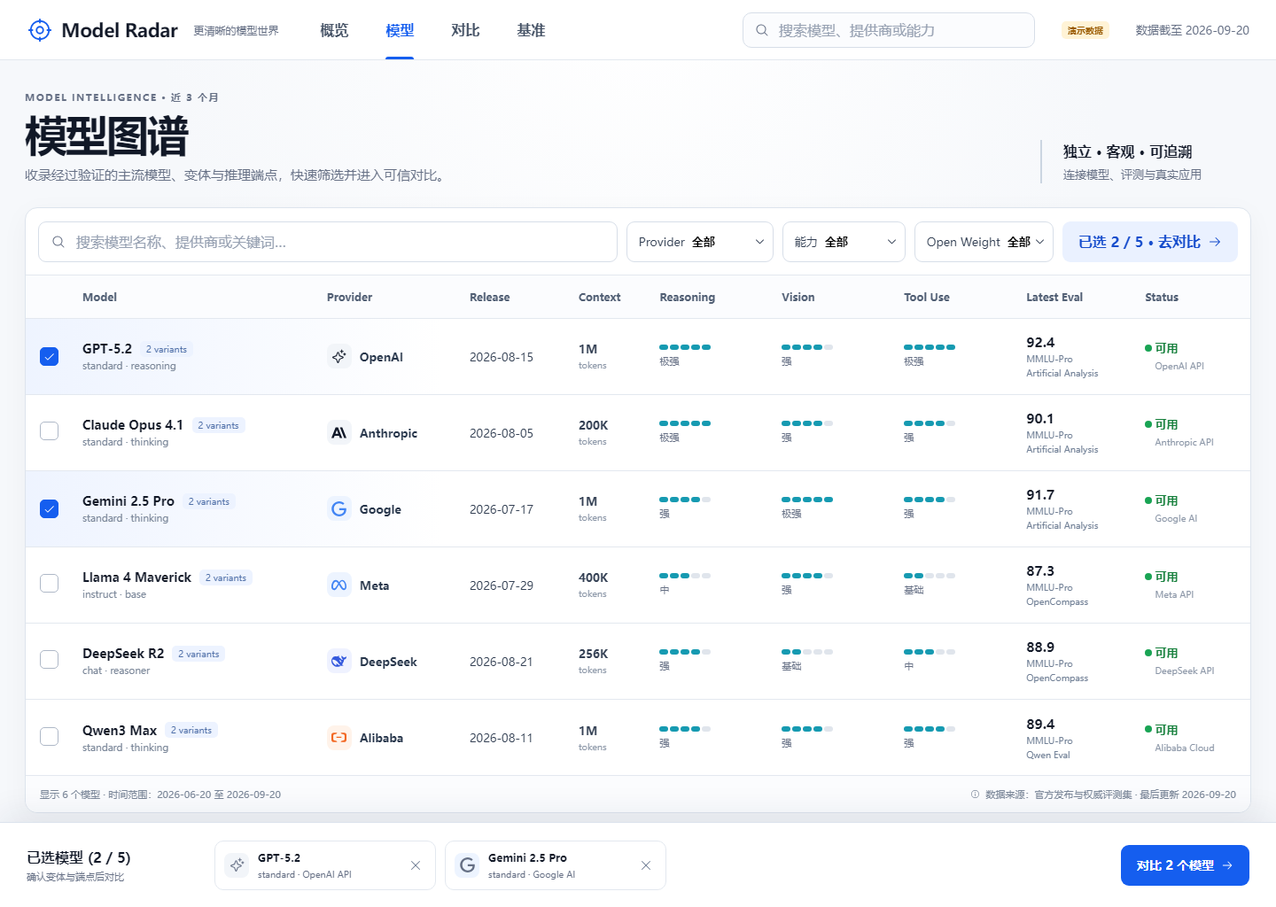
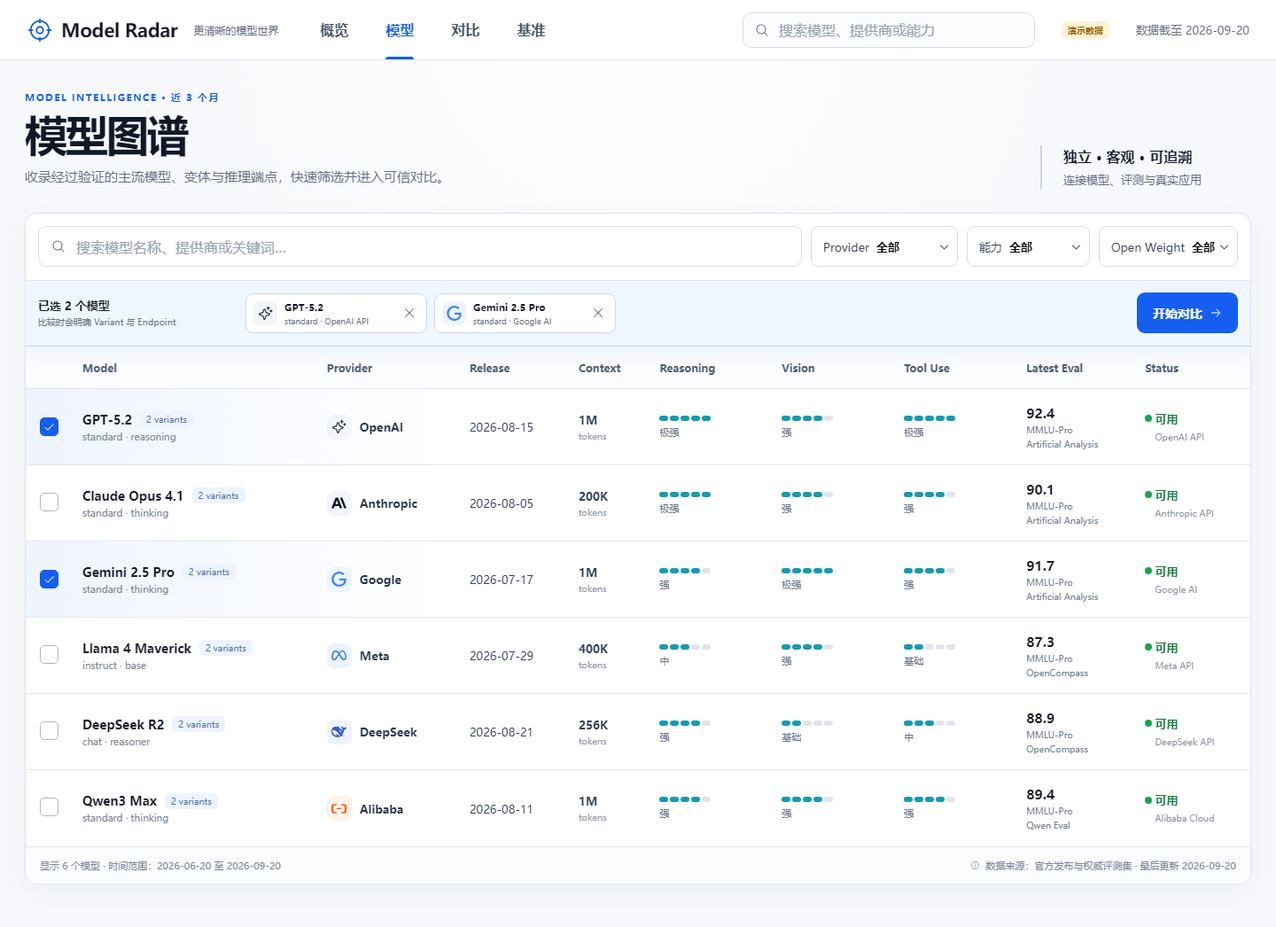
feat: complete navigation and selection flow

diff --git a/apps/web/src/App.jsx b/apps/web/src/App.jsx
@@ -1,8 +1,14 @@
-import { useMemo, useState } from "react";
-import { PiArrowLeft, PiArrowRight, PiCaretDown, PiCheck, PiClockCounterClockwise, PiCrosshair, PiInfo, PiMagnifyingGlass, PiSparkle, PiX } from "react-icons/pi";
+import { useEffect, useMemo, useState } from "react";
+import {
+  PiArrowLeft, PiArrowRight, PiBracketsCurly,
+  PiCaretDown, PiCaretRight, PiChartLineUp, PiCheck,
+  PiClockCounterClockwise, PiCrosshair, PiCurrencyDollar, PiInfo,
+  PiLightning, PiMagnifyingGlass, PiShieldWarning, PiSparkle, PiTrendUp, PiX,
+} from "react-icons/pi";
 import { SiAlibabacloud, SiAnthropic, SiDeepseek, SiGoogle, SiMeta } from "react-icons/si";
 
 const PROVIDER_ICONS = { OpenAI: PiSparkle, Anthropic: SiAnthropic, Google: SiGoogle, Meta: SiMeta, DeepSeek: SiDeepseek, Alibaba: SiAlibabacloud };
+const ROUTES = { overview: "/", models: "/models", compare: "/compare", benchmarks: "/benchmarks" };
 const MODELS = [
   { id:"gpt-5-2", name:"GPT-5.2", provider:"OpenAI", release:"2026-08-15", context:"1M", reasoning:5, vision:4, tools:5, eval:92.4, benchmark:"MMLU-Pro", source:"Artificial Analysis", variants:["standard","reasoning"], endpoint:"OpenAI API", openWeight:false, score:{"SWE-bench":76.3,GPQA:89.2,"LiveBench Coding":81.4} },
   { id:"claude-opus-4-1", name:"Claude Opus 4.1", provider:"Anthropic", release:"2026-08-05", context:"200K", reasoning:5, vision:4, tools:4, eval:90.1, benchmark:"MMLU-Pro", source:"Artificial Analysis", variants:["standard","thinking"], endpoint:"Anthropic API", openWeight:false, score:{"SWE-bench":72.8,GPQA:88.7,"LiveBench Coding":79.6} },
@@ -11,46 +17,82 @@ const MODELS = [
   { id:"deepseek-r2", name:"DeepSeek R2", provider:"DeepSeek", release:"2026-08-21", context:"256K", reasoning:4, vision:2, tools:3, eval:88.9, benchmark:"MMLU-Pro", source:"OpenCompass", variants:["chat","reasoner"], endpoint:"DeepSeek API", openWeight:true, score:{"SWE-bench":70.2,GPQA:87.1,"LiveBench Coding":77.8} },
   { id:"qwen3-max", name:"Qwen3 Max", provider:"Alibaba", release:"2026-08-11", context:"1M", reasoning:4, vision:4, tools:4, eval:89.4, benchmark:"MMLU-Pro", source:"Qwen Eval", variants:["standard","thinking"], endpoint:"Alibaba Cloud", openWeight:false, score:{"SWE-bench":71.6,GPQA:86.9,"LiveBench Coding":78.3} },
 ];
+const UPDATES = [
+  { type:"基准变化", icon:PiChartLineUp, tone:"blue", title:"GPT-5.2 在 SWE-bench Verified 上升 5.8%", detail:"72.1 → 76.3 · 当前三个月最大代码能力变化", date:"09-20", source:"Artificial Analysis" },
+  { type:"规格更新", icon:PiBracketsCurly, tone:"violet", title:"Claude Sonnet 4.5 上下文扩展至 1M", detail:"长文档与代码库任务的可用窗口显著扩大", date:"09-18", source:"Anthropic" },
+  { type:"价格调整", icon:PiCurrencyDollar, tone:"amber", title:"Gemini 2.5 Flash 输入价格下调 20%", detail:"$0.30 → $0.24 / 1M tokens", date:"09-16", source:"Google" },
+  { type:"新模型", icon:PiLightning, tone:"green", title:"DeepSeek R2 进入观察名单", detail:"推理与工具使用评测已开始持续跟踪", date:"09-12", source:"DeepSeek" },
+];
+const BENCHMARKS = [
+  { id:"swe-bench", name:"SWE-bench Verified", category:"代码", capability:"Repo-level Coding", version:"2026.08", metric:"Resolved %", risk:"中", results:6, updated:"09-20", description:"衡量模型在真实 GitHub 仓库中定位、修改并验证软件问题的能力。", method:"500 个经人工验证的软件工程任务，分数越高越好。" },
+  { id:"gpqa", name:"GPQA Diamond", category:"推理", capability:"Scientific Reasoning", version:"Diamond", metric:"Accuracy", risk:"低", results:6, updated:"09-18", description:"面向博士级科学问题的高难度推理评测。", method:"198 道精选题目，采用准确率并记录推理设置。" },
+  { id:"livebench", name:"LiveBench Coding", category:"代码", capability:"Code Generation", version:"2026-09", metric:"Score", risk:"低", results:6, updated:"09-17", description:"按月更新、减少训练污染影响的动态代码评测。", method:"使用当月新题集，保留版本与评测时间。" },
+  { id:"mmlu-pro", name:"MMLU-Pro", category:"推理", capability:"Knowledge & Reasoning", version:"0.3", metric:"Accuracy", risk:"中", results:6, updated:"09-15", description:"覆盖多学科知识与复杂推理的选择题评测。", method:"十选一题型，按统一 prompt 与温度设置比较。" },
+  { id:"mmmu", name:"MMMU", category:"多模态", capability:"Vision Reasoning", version:"1.1", metric:"Accuracy", risk:"中", results:4, updated:"09-09", description:"面向大学学科图像、图表与文档理解的多模态评测。", method:"图文混合输入，结果明确关联支持视觉的 Variant。" },
+];
 
-function Rating({ value, label }) {
-  return <div className="rating" aria-label={`${label} ${value}/5`}><span className="rating-bars">{[1,2,3,4,5].map(n=><i key={n} className={n<=value?"filled":""}/>)}</span><small>{value>=5?"极强":value>=4?"强":value>=3?"中":"基础"}</small></div>;
+function ModelMark({ model }) { const Icon=PROVIDER_ICONS[model.provider]; return <span className={`provider-mark provider-${model.provider.toLowerCase()}`}><Icon/></span>; }
+function Rating({ value, label }) { return <div className="rating" aria-label={`${label} ${value}/5`}><span className="rating-bars">{[1,2,3,4,5].map(n=><i key={n} className={n<=value?"filled":""}/>)}</span><small>{value>=5?"极强":value>=4?"强":value>=3?"中":"基础"}</small></div>; }
+function Filter({ label, value, onChange, options }) { return <label className="filter"><span>{label}</span><select value={value} onChange={e=>onChange(e.target.value)}><option value="all">全部</option>{options.map(x=><option key={x} value={x}>{x}</option>)}</select><PiCaretDown/></label>; }
+
+function PageHero({ eyebrow, title, description, aside }) {
+  return <div className="page-hero"><div><p className="eyebrow">{eyebrow}</p><h1>{title}</h1><p>{description}</p></div>{aside&&<aside>{aside}</aside>}</div>;
 }
-function Filter({ label, value, onChange, options }) {
-  return <label className="filter"><span>{label}</span><select value={value} onChange={e=>onChange(e.target.value)}><option value="all">全部</option>{options.map(x=><option key={x} value={x}>{x}</option>)}</select><PiCaretDown /></label>;
-}
-function ModelMark({ model }) {
-  const Icon=PROVIDER_ICONS[model.provider];
-  return <span className={`provider-mark provider-${model.provider.toLowerCase()}`}><Icon /></span>;
-}
-function CompareView({ selected, onBack, onRemove }) {
-  const benchmarks=["SWE-bench","GPQA","LiveBench Coding"];
-  return <section className="compare-view">
-    <button className="text-button" onClick={onBack}><PiArrowLeft/> 返回模型图谱</button>
-    <div className="compare-title"><div><p className="eyebrow">最近 3 个月 · 数据截至 2026-09-20</p><h1>模型对比</h1><p>对比明确的模型变体与服务端点，不混合不同渠道数据。</p></div><span className="freshness"><PiClockCounterClockwise/> 90 天窗口</span></div>
-    <div className="compare-grid" style={{"--columns":selected.length}}>
-      <div className="compare-label blank"/>
-      {selected.map(m=><article className="compare-head" key={m.id}><button onClick={()=>onRemove(m.id)} aria-label={`移除 ${m.name}`}><PiX/></button><ModelMark model={m}/><strong>{m.name}</strong><span>{m.variants[0]} · {m.endpoint}</span></article>)}
-      <div className="compare-label">上下文窗口</div>{selected.map(m=><div className="compare-cell" key={`${m.id}-context`}><b>{m.context}</b></div>)}
-      {benchmarks.map(b=><div className="compare-row" key={b}><div className="compare-label">{b}<small>权威评测集</small></div>{selected.map(m=>{const best=Math.max(...selected.map(x=>x.score[b]));return <div className={`compare-cell ${m.score[b]===best?"best":""}`} key={`${m.id}-${b}`}><b>{m.score[b]}</b><span>{m.score[b]===best?"当前最佳":""}</span></div>})}</div>)}
-      <div className="compare-label">来源可信度</div>{selected.map(m=><div className="compare-cell evidence" key={`${m.id}-source`}><PiCheck/><div><b>高</b><span>{m.source} · 2026-09-18</span></div></div>)}
+
+function Overview({ navigate }) {
+  return <section className="page overview-page">
+    <PageHero eyebrow="LAST 90 DAYS · 数据截至 2026-09-20" title="最近发生了什么？" description="聚合模型发布、评测变化、价格和规格更新，只保留影响决策的信号。" aside={<><strong>近三个月观察窗口</strong><span>2026-06-20 — 2026-09-20</span></>}/>
+    <div className="overview-grid">
+      <article className="panel activity-panel"><header><div><p className="section-kicker">LATEST CHANGES</p><h2>重要变化</h2></div><button className="text-button" onClick={()=>navigate("models")}>查看模型 <PiArrowRight/></button></header>
+        <div className="activity-list">{UPDATES.map(({type,icon:Icon,tone,title,detail,date,source})=><div className="activity-row" key={title}><span className={`activity-icon ${tone}`}><Icon/></span><div><small>{type}</small><strong>{title}</strong><p>{detail}</p></div><div className="activity-meta"><b>{date}</b><span>{source}</span></div></div>)}</div>
+      </article>
+      <aside className="panel watch-panel"><p className="section-kicker">WATCHLIST</p><h2>值得关注</h2><p className="panel-intro">近期变化幅度较大的模型。</p>{MODELS.slice(0,4).map((m,index)=><div className="watch-row" key={m.id}><span>{index+1}</span><ModelMark model={m}/><div><strong>{m.name}</strong><small>{m.provider} · {m.context}</small></div><b>{m.eval}</b></div>)}<button className="primary wide" onClick={()=>navigate("models")}>选择模型进行对比 <PiArrowRight/></button></aside>
     </div>
+    <article className="panel pulse-panel"><header><div><p className="section-kicker">BENCHMARK PULSE</p><h2>评测变化速览</h2></div><button className="text-button" onClick={()=>navigate("benchmarks")}>查看全部基准 <PiArrowRight/></button></header><div className="pulse-list"><div><span>SWE-bench Verified</span><strong>GPT-5.2</strong><b className="positive">+5.8%</b></div><div><span>GPQA Diamond</span><strong>Gemini 2.5 Pro</strong><b className="positive">+2.7%</b></div><div><span>LiveBench Coding</span><strong>Qwen3 Max</strong><b className="positive">+3.1%</b></div></div></article>
+  </section>;
+}
+
+function SelectionDock({ selected, toggle, navigate }) {
+  const message=selected.length===0?"选择 2–5 个模型开始对比":selected.length===1?"已选 1 个，再选 1 个即可对比":`已选 ${selected.length} 个模型`;
+  return <div className={`selection-dock ${selected.length?"has-selection":""}`} aria-live="polite"><div className="selection-summary"><strong>{message}</strong><span>比较时会明确 Variant 与 Endpoint</span></div><div className="selection-chips">{selected.map(m=><span className="selection-chip" key={m.id}><ModelMark model={m}/><span><b>{m.name}</b><small>{m.variants[0]} · {m.endpoint}</small></span><button onClick={()=>toggle(m.id)} aria-label={`移除 ${m.name}`}><PiX/></button></span>)}</div><button className="primary" disabled={selected.length<2} onClick={()=>navigate("compare")}>{selected.length<2?"继续选择":"开始对比"} <PiArrowRight/></button></div>;
+}
+
+function ModelCatalog({ query, setQuery, selected, selectedIds, toggle, provider, setProvider, capability, setCapability, openWeight, setOpenWeight, navigate }) {
+  const filtered=useMemo(()=>MODELS.filter(m=>`${m.name} ${m.provider}`.toLowerCase().includes(query.toLowerCase())&&(provider==="all"||m.provider===provider)&&(openWeight==="all"||(openWeight==="yes"?m.openWeight:!m.openWeight))&&(capability==="all"||m[capability]>=4)),[query,provider,capability,openWeight]);
+  return <section className="catalog page"><PageHero eyebrow="MODEL INTELLIGENCE · 近 3 个月" title="模型图谱" description="收录经过验证的主流模型、变体与推理端点，快速筛选并进入可信对比。" aside={<><strong>独立 · 客观 · 可追溯</strong><span>连接模型、评测与真实应用</span></>}/>
+    <div className="catalog-surface"><div className="filters"><label className="model-search"><PiMagnifyingGlass/><input value={query} onChange={e=>setQuery(e.target.value)} placeholder="搜索模型名称、提供商或关键词…"/></label><Filter label="Provider" value={provider} onChange={setProvider} options={["OpenAI","Anthropic","Google","Meta","DeepSeek","Alibaba"]}/><Filter label="能力" value={capability} onChange={setCapability} options={["reasoning","vision","tools"]}/><Filter label="Open Weight" value={openWeight} onChange={setOpenWeight} options={["yes","no"]}/></div>
+      <SelectionDock selected={selected} toggle={toggle} navigate={navigate}/>
+      <div className="table-wrap"><table><thead><tr><th/><th>Model</th><th>Provider</th><th>Release</th><th>Context</th><th>Reasoning</th><th>Vision</th><th>Tool Use</th><th>Latest Eval</th><th>Status</th></tr></thead><tbody>{filtered.map(m=>{const checked=selectedIds.includes(m.id);return <tr key={m.id} className={checked?"selected":""}><td><button className={`checkbox ${checked?"checked":""}`} onClick={()=>toggle(m.id)} aria-label={`${checked?"取消选择":"选择"} ${m.name}`}>{checked&&<PiCheck/>}</button></td><td><div className="model-name"><strong>{m.name}</strong><span>{m.variants.length} variants</span><small>{m.variants.join(" · ")}</small></div></td><td><div className="provider"><ModelMark model={m}/><span>{m.provider}</span></div></td><td>{m.release}</td><td><b>{m.context}</b><small>tokens</small></td><td><Rating value={m.reasoning} label="Reasoning"/></td><td><Rating value={m.vision} label="Vision"/></td><td><Rating value={m.tools} label="Tool use"/></td><td><div className="eval"><b>{m.eval}</b><span>{m.benchmark}</span><small>{m.source}</small></div></td><td><div className="status"><i/>可用<small>{m.endpoint}</small></div></td></tr>})}</tbody></table>{filtered.length===0&&<div className="empty">没有符合当前筛选条件的模型</div>}</div>
+      <footer className="table-footer"><span>显示 {filtered.length} 个模型 · 时间范围：2026-06-20 至 2026-09-20</span><span><PiInfo/> 数据来源：官方发布与权威评测集 · 最后更新 2026-09-20</span></footer></div>
+  </section>;
+}
+
+function CompareView({ selected, navigate, toggle }) {
+  const benchmarks=["SWE-bench","GPQA","LiveBench Coding"];
+  if(selected.length<2) return <section className="page compare-view"><PageHero eyebrow="MODEL COMPARE" title="模型对比" description="选择 2–5 个明确的 Variant 与 Endpoint，避免混合不同渠道的数据。"/><div className="panel compare-empty"><span className="empty-icon"><PiTrendUp/></span><h2>{selected.length===1?"再选 1 个模型即可开始":"还没有选择模型"}</h2><p>{selected.length===1?`${selected[0].name} 已加入对比。`:"从模型图谱中选择你真正关心的候选项。"}</p><button className="primary" onClick={()=>navigate("models")}>去选择模型 <PiArrowRight/></button></div></section>;
+  return <section className="compare-view page"><button className="text-button" onClick={()=>navigate("models")}><PiArrowLeft/> 返回模型图谱</button><div className="compare-title"><div><p className="eyebrow">最近 3 个月 · 数据截至 2026-09-20</p><h1>模型对比</h1><p>对比明确的模型变体与服务端点，不混合不同渠道数据。</p></div><span className="freshness"><PiClockCounterClockwise/> 90 天窗口</span></div><div className="compare-grid" style={{"--columns":selected.length}}><div className="compare-label blank"/>{selected.map(m=><article className="compare-head" key={m.id}><button onClick={()=>toggle(m.id)} aria-label={`移除 ${m.name}`}><PiX/></button><ModelMark model={m}/><strong>{m.name}</strong><span>{m.variants[0]} · {m.endpoint}</span></article>)}<div className="compare-label">上下文窗口</div>{selected.map(m=><div className="compare-cell" key={`${m.id}-context`}><b>{m.context}</b></div>)}{benchmarks.map(b=><div className="compare-row" key={b}><div className="compare-label">{b}<small>权威评测集</small></div>{selected.map(m=>{const best=Math.max(...selected.map(x=>x.score[b]));return <div className={`compare-cell ${m.score[b]===best?"best":""}`} key={`${m.id}-${b}`}><b>{m.score[b]}</b><span>{m.score[b]===best?"当前最佳":""}</span></div>})}</div>)}<div className="compare-label">来源可信度</div>{selected.map(m=><div className="compare-cell evidence" key={`${m.id}-source`}><PiCheck/><div><b>高</b><span>{m.source} · 2026-09-18</span></div></div>)}</div></section>;
+}
+
+function Benchmarks() {
+  const [search,setSearch]=useState(""), [category,setCategory]=useState("all"), [active,setActive]=useState("swe-bench");
+  const rows=BENCHMARKS.filter(b=>(b.name+b.capability).toLowerCase().includes(search.toLowerCase())&&(category==="all"||b.category===category));
+  const detail=BENCHMARKS.find(b=>b.id===active);
+  return <section className="page benchmark-page"><PageHero eyebrow="BENCHMARK REGISTRY · 近 3 个月" title="基准目录" description="理解每个分数测量什么、使用哪个版本，以及结果是否存在污染风险。" aside={<><strong>{BENCHMARKS.length} 个核心基准</strong><span>版本、Metric 与来源可追溯</span></>}/>
+    <div className="panel benchmark-panel"><div className="benchmark-tools"><label className="model-search"><PiMagnifyingGlass/><input value={search} onChange={e=>setSearch(e.target.value)} placeholder="搜索基准或能力…"/></label><Filter label="分类" value={category} onChange={setCategory} options={["代码","推理","多模态"]}/></div><div className="benchmark-list"><div className="benchmark-list-head"><span>Benchmark</span><span>能力</span><span>版本 / Metric</span><span>污染风险</span><span>最近更新</span><span/></div>{rows.map(b=><button className={`benchmark-row ${active===b.id?"active":""}`} key={b.id} onClick={()=>setActive(b.id)}><span><b>{b.name}</b><small>{b.category} · {b.results} 个模型结果</small></span><span>{b.capability}</span><span><b>{b.version}</b><small>{b.metric}</small></span><span className={`risk risk-${b.risk}`}>{b.risk}</span><span>{b.updated}</span><PiCaretRight/></button>)}</div></div>
+    {detail&&<article className="panel benchmark-detail"><div><p className="section-kicker">BENCHMARK DETAIL</p><h2>{detail.name}</h2><p>{detail.description}</p></div><dl><div><dt>评测方法</dt><dd>{detail.method}</dd></div><div><dt>当前版本</dt><dd>{detail.version}</dd></div><div><dt>Metric</dt><dd>{detail.metric}</dd></div><div><dt>污染风险</dt><dd><PiShieldWarning/> {detail.risk}</dd></div></dl></article>}
   </section>;
 }
 
 export function App() {
-  const [view,setView]=useState("models"), [query,setQuery]=useState(""), [provider,setProvider]=useState("all"), [capability,setCapability]=useState("all"), [openWeight,setOpenWeight]=useState("all"), [selectedIds,setSelectedIds]=useState(["gpt-5-2","gemini-2-5-pro"]);
+  const pathToView=()=>Object.entries(ROUTES).find(([,path])=>path===location.pathname)?.[0]||"overview";
+  const [view,setView]=useState(pathToView), [query,setQuery]=useState(""), [provider,setProvider]=useState("all"), [capability,setCapability]=useState("all"), [openWeight,setOpenWeight]=useState("all"), [selectedIds,setSelectedIds]=useState([]);
   const selected=MODELS.filter(m=>selectedIds.includes(m.id));
-  const filtered=useMemo(()=>MODELS.filter(m=>`${m.name} ${m.provider}`.toLowerCase().includes(query.toLowerCase())&&(provider==="all"||m.provider===provider)&&(openWeight==="all"||(openWeight==="yes"?m.openWeight:!m.openWeight))&&(capability==="all"||m[capability]>=4)),[query,provider,capability,openWeight]);
+  const navigate=next=>{ setView(next); if(location.pathname!==ROUTES[next]) history.pushState({},"",ROUTES[next]); window.scrollTo({top:0,behavior:"instant"}); };
+  useEffect(()=>{ const onPop=()=>setView(pathToView()); addEventListener("popstate",onPop); return()=>removeEventListener("popstate",onPop); },[]);
   const toggle=id=>setSelectedIds(now=>now.includes(id)?now.filter(x=>x!==id):now.length<5?[...now,id]:now);
-  const removeFromCompare=id=>{ toggle(id); if(selected.length<=2) setView("models"); };
-  return <div className="app-shell">
-    <header className="topbar"><button className="brand" onClick={()=>setView("models")}><PiCrosshair/><strong>Model Radar</strong><span>更清晰的模型世界</span></button><nav><button>概览</button><button className={view==="models"?"active":""} onClick={()=>setView("models")}>模型</button><button className={view==="compare"?"active":""} onClick={()=>selected.length>=2&&setView("compare")}>对比</button><button>基准</button></nav><label className="global-search"><PiMagnifyingGlass/><input value={query} onChange={e=>setQuery(e.target.value)} placeholder="搜索模型、提供商或能力"/></label><span className="demo-badge">演示数据</span><span className="as-of">数据截至 2026-09-20</span></header>
-    <main>{view==="compare"?<CompareView selected={selected} onBack={()=>setView("models")} onRemove={removeFromCompare}/>:<section className="catalog">
-      <div className="hero"><div><p className="eyebrow">MODEL INTELLIGENCE · 近 3 个月</p><h1>模型图谱</h1><p>收录经过验证的主流模型、变体与推理端点，快速筛选并进入可信对比。</p></div><aside><strong>独立 · 客观 · 可追溯</strong><span>连接模型、评测与真实应用</span></aside></div>
-      <div className="catalog-surface"><div className="filters"><label className="model-search"><PiMagnifyingGlass/><input value={query} onChange={e=>setQuery(e.target.value)} placeholder="搜索模型名称、提供商或关键词…"/></label><Filter label="Provider" value={provider} onChange={setProvider} options={["OpenAI","Anthropic","Google","Meta","DeepSeek","Alibaba"]}/><Filter label="能力" value={capability} onChange={setCapability} options={["reasoning","vision","tools"]}/><Filter label="Open Weight" value={openWeight} onChange={setOpenWeight} options={["yes","no"]}/><button className="selection-action" disabled={selected.length<2} onClick={()=>setView("compare")}>已选 {selected.length} / 5 · 去对比 <PiArrowRight/></button></div>
-        <div className="table-wrap"><table><thead><tr><th/><th>Model</th><th>Provider</th><th>Release</th><th>Context</th><th>Reasoning</th><th>Vision</th><th>Tool Use</th><th>Latest Eval</th><th>Status</th></tr></thead><tbody>{filtered.map(m=>{const checked=selectedIds.includes(m.id);return <tr key={m.id} className={checked?"selected":""}><td><button className={`checkbox ${checked?"checked":""}`} onClick={()=>toggle(m.id)} aria-label={`${checked?"取消选择":"选择"} ${m.name}`}>{checked&&<PiCheck/>}</button></td><td><div className="model-name"><strong>{m.name}</strong><span>{m.variants.length} variants</span><small>{m.variants.join(" · ")}</small></div></td><td><div className="provider"><ModelMark model={m}/><span>{m.provider}</span></div></td><td>{m.release}</td><td><b>{m.context}</b><small>tokens</small></td><td><Rating value={m.reasoning} label="Reasoning"/></td><td><Rating value={m.vision} label="Vision"/></td><td><Rating value={m.tools} label="Tool use"/></td><td><div className="eval"><b>{m.eval}</b><span>{m.benchmark}</span><small>{m.source}</small></div></td><td><div className="status"><i/>可用<small>{m.endpoint}</small></div></td></tr>})}</tbody></table>{filtered.length===0&&<div className="empty">没有符合当前筛选条件的模型</div>}</div>
-        <footer className="table-footer"><span>显示 {filtered.length} 个模型 · 时间范围：2026-06-20 至 2026-09-20</span><span><PiInfo/> 数据来源：官方发布与权威评测集 · 最后更新 2026-09-20</span></footer></div>
-      {selected.length>0&&<div className="compare-shelf"><div className="shelf-title"><strong>已选模型 ({selected.length} / 5)</strong><span>确认变体与端点后对比</span></div><div className="shelf-items">{selected.map(m=><div className="shelf-item" key={m.id}><ModelMark model={m}/><div><strong>{m.name}</strong><span>{m.variants[0]} · {m.endpoint}</span></div><button onClick={()=>toggle(m.id)} aria-label={`移除 ${m.name}`}><PiX/></button></div>)}</div><button className="primary" disabled={selected.length<2} onClick={()=>setView("compare")}>对比 {selected.length} 个模型 <PiArrowRight/></button></div>}
-    </section>}</main>
-  </div>;
+  const globalSearch=e=>{ setQuery(e.target.value); if(view!=="models") navigate("models"); };
+  const nav=[{id:"overview",label:"概览"},{id:"models",label:"模型"},{id:"compare",label:"对比"},{id:"benchmarks",label:"基准"}];
+  return <div className="app-shell"><header className="topbar"><button className="brand" onClick={()=>navigate("overview")}><PiCrosshair/><strong>Model Radar</strong><span>更清晰的模型世界</span></button><nav aria-label="主导航">{nav.map(item=><button key={item.id} className={view===item.id?"active":""} aria-current={view===item.id?"page":undefined} onClick={()=>navigate(item.id)}>{item.label}</button>)}</nav><label className="global-search"><PiMagnifyingGlass/><input value={query} onChange={globalSearch} placeholder="搜索模型、提供商或能力"/></label><span className="demo-badge">演示数据</span><span className="as-of">数据截至 2026-09-20</span></header><main>
+    {view==="overview"&&<Overview navigate={navigate}/>} {view==="models"&&<ModelCatalog query={query} setQuery={setQuery} selected={selected} selectedIds={selectedIds} toggle={toggle} provider={provider} setProvider={setProvider} capability={capability} setCapability={setCapability} openWeight={openWeight} setOpenWeight={setOpenWeight} navigate={navigate}/>} {view==="compare"&&<CompareView selected={selected} navigate={navigate} toggle={toggle}/>} {view==="benchmarks"&&<Benchmarks/>}
+  </main></div>;
 }

diff --git a/apps/web/src/styles.css b/apps/web/src/styles.css
@@ -7,3 +7,18 @@
 .text-button{margin-bottom:18px;padding:0;display:inline-flex;align-items:center;gap:7px;border:0;background:none;color:var(--blue);font-weight:700;cursor:pointer}.freshness{display:inline-flex;align-items:center;gap:7px;color:#526075;font-size:13px}.compare-grid{display:grid;grid-template-columns:190px repeat(var(--columns),minmax(190px,1fr));background:#fff;border:1px solid var(--line);border-radius:14px;overflow:hidden;box-shadow:0 8px 32px #1f29370a}.compare-row{display:contents}.compare-head,.compare-cell,.compare-label{min-height:76px;padding:16px;border-bottom:1px solid var(--line);border-left:1px solid var(--line)}.compare-head{min-height:150px;display:flex;flex-direction:column;align-items:flex-start;gap:8px;position:relative}.compare-head button{position:absolute;top:10px;right:10px}.compare-head .provider-mark{width:36px;height:36px}.compare-head strong{font-size:17px}.compare-head span{color:var(--muted);font-size:12px}.compare-label{border-left:0;display:flex;flex-direction:column;justify-content:center;font-weight:700;color:#344054;background:#fbfcfe}.compare-label small{margin-top:5px;color:#8a94a4;font-weight:500}.compare-label.blank{min-height:150px}.compare-cell{display:flex;flex-direction:column;justify-content:center;gap:5px}.compare-cell b{font-size:21px}.compare-cell>span{color:#1d7a43;font-size:10px;font-weight:700}.compare-cell.best{background:#f2fbf6;color:#116d3a}.compare-cell.evidence{flex-direction:row;align-items:center;justify-content:flex-start;color:#168142}.compare-cell.evidence svg{border-radius:50%;background:#ddf7e8;padding:3px;width:22px;height:22px}.compare-cell.evidence div{display:grid}.compare-cell.evidence b{font-size:14px}.compare-cell.evidence span{color:var(--muted);font-size:10px}
 @media(max-width:980px){.brand span,.as-of,.demo-badge,.topbar nav button:first-child,.topbar nav button:last-child{display:none}.topbar{gap:12px;padding:0 16px}.topbar nav button{padding:0 10px}.global-search{width:auto;flex:1}.filters{flex-wrap:wrap}.model-search{flex-basis:100%}.selection-action{margin-left:auto}.hero{align-items:flex-start}.compare-shelf{padding:12px 16px}.shelf-title{display:none}.compare-grid{min-width:760px}.compare-view{overflow-x:auto}}
 @media(max-width:640px){.app-shell{padding-bottom:105px}.topbar{height:60px}.brand strong{font-size:17px}.brand>svg{width:25px}.topbar nav{margin-left:auto}.topbar nav button{font-size:13px;padding:0 8px}.global-search{display:none}.catalog,.compare-view{padding:24px 14px 0}.hero{display:block}.hero aside{display:none}.hero h1{font-size:36px}.filter{flex:1 1 130px;justify-content:space-between}.selection-action{width:100%;justify-content:center}.table-footer{align-items:flex-start;flex-direction:column;padding:10px 14px}.compare-shelf{min-height:88px;gap:10px}.shelf-items{gap:6px}.shelf-item{min-width:180px;padding:7px}.shelf-item .provider-mark{display:none}.primary{padding:0 12px;font-size:12px}.compare-title{align-items:flex-start;flex-direction:column}}
+
+/* Page system and navigation-complete views */
+.app-shell{padding-bottom:0}.page{padding:34px 28px 48px}.page-hero{display:flex;align-items:flex-end;justify-content:space-between;gap:30px;margin-bottom:27px}.page-hero h1{margin:0;font-size:clamp(34px,3.3vw,48px);line-height:1.1;letter-spacing:-1.5px}.page-hero>div>p:last-child{max-width:720px;margin:10px 0 0;color:var(--muted);font-size:15px;line-height:1.7}.page-hero aside{min-width:238px;padding:2px 0 2px 24px;border-left:2px solid #cbd5e1;display:grid;gap:7px}.page-hero aside strong{font-size:16px}.page-hero aside span{color:var(--muted);font-size:13px}.panel{background:#fff;border:1px solid #dde4ed;border-radius:14px;box-shadow:0 8px 32px #1f29370a}.panel header{display:flex;align-items:center;justify-content:space-between;gap:18px;padding:22px 24px;border-bottom:1px solid var(--line)}.panel h2{margin:3px 0 0;font-size:20px;letter-spacing:-.35px}.section-kicker{margin:0;color:var(--blue);font-size:10px;font-weight:800;letter-spacing:1.2px}.panel .text-button{margin:0}.primary.wide{width:100%;justify-content:center}
+
+.overview-grid{display:grid;grid-template-columns:minmax(0,1.7fr) minmax(300px,.8fr);gap:18px}.activity-list{padding:0 24px}.activity-row{display:grid;grid-template-columns:42px minmax(0,1fr) auto;gap:14px;align-items:center;padding:18px 0;border-bottom:1px solid var(--line)}.activity-row:last-child{border-bottom:0}.activity-icon{width:40px;height:40px;border-radius:11px;display:grid;place-items:center}.activity-icon svg{width:20px;height:20px}.activity-icon.blue{background:#edf4ff;color:#2563eb}.activity-icon.violet{background:#f3efff;color:#7656d8}.activity-icon.amber{background:#fff5df;color:#bb7417}.activity-icon.green{background:#eaf8ef;color:#18814a}.activity-row>div:nth-child(2){display:grid;gap:4px}.activity-row small{color:#7d899a;font-size:10px}.activity-row strong{font-size:14px}.activity-row p{margin:0;color:var(--muted);font-size:12px}.activity-meta{display:grid;gap:5px;text-align:right}.activity-meta b{font-size:12px}.activity-meta span{color:#8a94a4;font-size:10px}.watch-panel{padding:22px 22px 18px}.watch-panel>h2{margin-bottom:4px}.panel-intro{margin:0 0 14px;color:var(--muted);font-size:12px}.watch-row{display:grid;grid-template-columns:22px 30px 1fr auto;gap:9px;align-items:center;padding:12px 0;border-bottom:1px solid var(--line)}.watch-row>span{color:#98a2b3;font-size:12px}.watch-row>div{display:grid;gap:3px}.watch-row strong{font-size:12px}.watch-row small{color:var(--muted);font-size:10px}.watch-row>b{font-size:14px}.watch-panel .primary{margin-top:16px}.pulse-panel{margin-top:18px}.pulse-list{display:grid;grid-template-columns:repeat(3,1fr)}.pulse-list>div{padding:20px 24px;display:grid;gap:7px;border-right:1px solid var(--line)}.pulse-list>div:last-child{border-right:0}.pulse-list span{color:var(--muted);font-size:11px}.pulse-list strong{font-size:14px}.pulse-list b{font-size:12px}.positive{color:#168142}
+
+.selection-dock{position:sticky;top:68px;z-index:12;min-height:74px;padding:12px 14px;display:flex;align-items:center;gap:14px;background:#f8fafc;border-bottom:1px solid var(--line);box-shadow:0 5px 14px transparent;transition:.18s}.selection-dock.has-selection{background:#f0f6ff;border-color:#bfd3fb;box-shadow:0 8px 18px #155eef12}.selection-summary{min-width:220px;display:grid;gap:3px}.selection-summary strong{font-size:13px}.selection-summary span{color:var(--muted);font-size:10px}.selection-chips{flex:1;display:flex;gap:8px;overflow-x:auto}.selection-chip{min-width:205px;padding:7px 8px;display:flex;align-items:center;gap:8px;background:#fff;border:1px solid #cbd9f0;border-radius:9px}.selection-chip .provider-mark{width:27px;height:27px}.selection-chip>span{min-width:0;display:grid;gap:2px}.selection-chip b{font-size:11px}.selection-chip small{max-width:135px;color:var(--muted);font-size:9px;white-space:nowrap;overflow:hidden;text-overflow:ellipsis}.selection-chip button{margin-left:auto;padding:3px;display:grid;border:0;background:none;color:#667085;cursor:pointer}.selection-dock>.primary{margin-left:auto;flex:0 0 auto}
+
+.compare-empty{min-height:340px;padding:56px 24px;display:flex;flex-direction:column;align-items:center;justify-content:center;text-align:center}.compare-empty .empty-icon{width:54px;height:54px;display:grid;place-items:center;border-radius:15px;background:var(--blue-weak);color:var(--blue)}.compare-empty .empty-icon svg{width:27px;height:27px}.compare-empty h2{margin:18px 0 8px}.compare-empty p{margin:0 0 22px;color:var(--muted)}
+
+.benchmark-panel{overflow:hidden}.benchmark-tools{display:flex;gap:10px;padding:14px;border-bottom:1px solid var(--line)}.benchmark-tools .model-search{max-width:520px}.benchmark-list-head,.benchmark-row{display:grid;grid-template-columns:1.55fr 1.1fr 1fr .72fr .62fr 24px;gap:14px;align-items:center}.benchmark-list-head{min-width:850px;padding:12px 18px;background:#fbfcfe;color:#667085;font-size:11px;font-weight:700}.benchmark-row{width:100%;min-width:850px;padding:16px 18px;border:0;border-top:1px solid var(--line);background:#fff;text-align:left;cursor:pointer}.benchmark-row:hover,.benchmark-row.active{background:#f6f9ff}.benchmark-row.active{box-shadow:inset 3px 0 var(--blue)}.benchmark-row>span{display:grid;gap:4px;font-size:12px}.benchmark-row b{font-size:13px}.benchmark-row small{color:var(--muted);font-size:10px}.risk{display:inline-flex!important;width:fit-content;padding:3px 8px;border-radius:999px;background:#fff3d6;color:#925900;font-weight:750}.risk-low{background:#eaf8ef;color:#14703e}.benchmark-detail{margin-top:18px;padding:24px;display:grid;grid-template-columns:minmax(260px,.75fr) 1.25fr;gap:36px}.benchmark-detail h2{margin:5px 0 9px}.benchmark-detail>div>p:last-child{margin:0;color:var(--muted);line-height:1.7}.benchmark-detail dl{margin:0;display:grid;grid-template-columns:2fr repeat(3,1fr);border:1px solid var(--line);border-radius:10px;overflow:hidden}.benchmark-detail dl>div{padding:15px;border-left:1px solid var(--line)}.benchmark-detail dl>div:first-child{border-left:0}.benchmark-detail dt{margin-bottom:7px;color:var(--muted);font-size:10px}.benchmark-detail dd{margin:0;font-size:12px;line-height:1.5}.benchmark-detail dd svg{vertical-align:-2px;color:#b26a00}
+
+@media(max-width:1100px){.overview-grid{grid-template-columns:1fr}.watch-panel{display:grid;grid-template-columns:repeat(2,1fr);column-gap:18px}.watch-panel>.section-kicker,.watch-panel>h2,.watch-panel>.panel-intro,.watch-panel>.primary{grid-column:1/-1}.selection-dock{align-items:flex-start;flex-wrap:wrap}.selection-summary{min-width:180px}.selection-chips{order:3;flex-basis:100%}.benchmark-detail{grid-template-columns:1fr}.benchmark-detail dl{grid-template-columns:2fr repeat(3,1fr)}}
+@media(max-width:980px){.page-hero{align-items:flex-start}.pulse-list{grid-template-columns:1fr}.pulse-list>div{border-right:0;border-bottom:1px solid var(--line)}.pulse-list>div:last-child{border-bottom:0}.benchmark-list{overflow-x:auto}}
+@media(max-width:640px){.app-shell{padding-bottom:0}.topbar nav button:first-child,.topbar nav button:last-child{display:block}.topbar{overflow-x:auto}.brand{flex:0 0 auto}.topbar nav{flex:0 0 auto}.page{padding:24px 14px 34px}.page-hero{display:block}.page-hero aside{display:none}.page-hero h1{font-size:36px}.overview-grid{gap:12px}.panel header{padding:18px}.activity-list{padding:0 18px}.activity-row{grid-template-columns:38px 1fr}.activity-meta{grid-column:2;text-align:left;display:flex}.activity-row p{line-height:1.5}.watch-panel{display:block}.selection-dock{top:60px;padding:10px}.selection-summary{min-width:0;flex:1}.selection-summary span{display:none}.selection-dock>.primary{height:40px}.selection-chip{min-width:180px}.benchmark-tools{flex-wrap:wrap}.benchmark-tools .model-search{flex-basis:100%;max-width:none}.benchmark-detail{padding:18px;gap:20px}.benchmark-detail dl{grid-template-columns:1fr 1fr}.benchmark-detail dl>div:nth-child(3){border-left:0;border-top:1px solid var(--line)}.benchmark-detail dl>div:nth-child(4){border-top:1px solid var(--line)}}

diff --git a/apps/web/design-qa.md b/apps/web/design-qa.md
@@ -1,43 +1,41 @@
 # Design QA
 
 - Source visual truth: `C:\Users\01416344\.codex\generated_images\01a0bceb-44e9-7843-ab10-fbe9052fbad9\exec-352bbee2-fbf9-4e8e-babc-b64e56188092.png`
-- Implementation screenshots: `qa/catalog.png`, `qa/compare.png`, `qa/mobile.png`
-- Viewport: 1440 × 1024 CSS px, device scale factor 1
-- State: model catalog with GPT-5.2 and Gemini 2.5 Pro selected; two-model comparison
-- Source pixels: 1488 × 1058
-- Implementation pixels: 1440 × 1024
-- Density normalization: both images have an equivalent 1.406 aspect ratio; the source was visually compared at the implementation's 1440 × 1024 display scale.
+- Implementation screenshots: `qa/overview.png`, `qa/catalog.png`, `qa/compare.png`, `qa/benchmarks.png`, `qa/mobile.png`
+- Desktop viewport: 1440 x 1024 CSS px; mobile viewport: 390 x 844 CSS px
+- Scope: all four primary sections, model selection, comparison, benchmark detail, and mobile behavior
 
 ## Evidence
 
-- Full-view comparison: the implementation preserves the source hierarchy and proportions—top navigation, restrained hero, single filter surface, six-row data table, provenance footer, and fixed comparison shelf. The reduced filter count is an intentional response to the request for a concise implementation.
-- Focused-region comparison: separate crops were unnecessary because table typography, capability bars, provider marks, selected rows, footer provenance, and shelf controls are legible in the original-resolution captures.
-- Fonts and typography: system/Chinese sans-serif fallback closely matches the neutral source hierarchy; headings, table labels, metadata, and numeric emphasis remain readable.
-- Spacing and layout: 28–30 px outer margins, compact 68 px navigation, table row rhythm, filter alignment, and bottom shelf match the source's density without clipping.
-- Colors and tokens: cool gray surface, ink text, blue selection/action states, teal capability marks, and green availability/best-score semantics match the reference direction with accessible contrast.
-- Image and icon quality: no raster placeholders or handcrafted SVGs are used; Phosphor and Simple Icons provide crisp interface/provider marks.
-- Copy and content: the three-month window, explicit variant/endpoint labels, source confidence, and demo-data disclosure are visible.
-- Primary interactions tested in Chromium: provider filter, empty search result, two-model selection, enter comparison, return to catalog.
+- The selected light “Model Atlas” direction remains intact: cool-gray canvas, crisp white surfaces, restrained blue accents, compact metadata, and dense but readable tables.
+- Overview now gives the previously inactive entry a useful job: recent changes, a watchlist, and benchmark movement, all scoped to the latest 90 days.
+- Models keeps the six-row catalog and exposes the selected models immediately below the filters. The 0/1/2+ states provide explicit guidance and the action is enabled only when comparison is valid.
+- Compare supports direct navigation with a useful empty state and a complete two-model state with variant, endpoint, benchmark, and provenance context.
+- Benchmarks now provides a searchable/filterable registry and in-page detail instead of a dead navigation item.
+- All four top-level actions update the URL (`/`, `/models`, `/compare`, `/benchmarks`) and active navigation state.
+- Chromium regression coverage passed for navigation, filtering, empty search, model selection, comparison, benchmark expansion, and mobile layout.
 - Browser console errors: 0.
-- Responsive check: 390 × 844 catalog has no page-level horizontal overflow; the dense data table scrolls within its own surface and the primary compare action remains visible.
+- Mobile has no page-level horizontal overflow. The technical model table intentionally scrolls inside its bounded surface.
+
+## Comparison history
+
+1. The first implementation matched the selected catalog visual but left Overview and Benchmarks inactive and placed selected models in a fixed bottom shelf.
+2. The UX audit reproduced both issues at desktop size and documented the hidden-selection risk.
+3. The current pass implemented meaningful Overview and Benchmarks pages, stable routes, direct Compare guidance, and a selection dock beneath the filters.
+4. Visual review at desktop and mobile found no clipping, broken hierarchy, or inaccessible active state.
 
 ## Findings
 
 - No actionable P0, P1, or P2 issues remain.
-- P3: provider marks differ slightly from the generated reference because official marks available in the selected icon library were used instead of approximated artwork.
-- P3: the mobile table intentionally uses contained horizontal scrolling rather than collapsing technical comparison columns.
+- P3: provider marks differ slightly from the generated reference because official marks from the selected icon library are used.
+- P3: the mobile data table uses contained horizontal scrolling to preserve technical columns.
 
-## Comparison history
+## Verification
 
-1. Initial pass was blocked because no browser-rendered capture existed.
-2. Chromium authorization enabled catalog and compare captures. The pass found two product-level issues: mock data was not disclosed and removing a model could leave an invalid one-item comparison.
-3. Added an `演示数据` label and automatic return to the catalog below two comparison items. Rebuilt, reran browser interactions, captured both states, and confirmed zero console errors.
-
-## Implementation checklist
-
-- [x] Source and implementation compared at equivalent aspect ratio.
-- [x] Core list/filter/select/compare flow works.
-- [x] Three-month scope and provenance are visible.
-- [x] Build, Sites packaging tests, and browser QA pass.
+- [x] Production build passes.
+- [x] Sites packaging and route fallback tests pass.
+- [x] Browser interaction test passes with zero console errors.
+- [x] Desktop overview, catalog, compare, and benchmark screenshots inspected.
+- [x] Mobile selected-model state inspected.
 
 final result: passed

diff --git a/apps/web/audit-menu-selection.md b/apps/web/audit-menu-selection.md
@@ -1,0 +1,56 @@
+# 菜单与模型选择 UX 审查
+
+审查时间：2026-09-21  
+视口：1366 × 768  
+范围：顶部导航、模型选择反馈、进入对比流程
+
+## 流程
+
+1. 模型页初始状态 — 需改进  
+   截图：`audit/01-models-initial.png`
+2. 点击“概览” — 不可用  
+   截图：`audit/02-after-overview-click.png`
+3. 点击“基准” — 不可用  
+   截图：`audit/03-after-benchmark-click.png`
+4. 点击“对比” — 正常  
+   截图：`audit/04-compare-destination.png`
+5. 只选择一个模型 — 需改进  
+   截图：`audit/05-one-model-selected.png`
+
+## 主要发现
+
+### P1：顶部导航包含无响应入口
+
+- 点击“概览”或“基准”后，URL 仍为 `/`，标题仍为“模型图谱”，高亮仍停留在“模型”。
+- 两个入口外观与可用入口完全相同，没有禁用态或“即将上线”提示。
+- “对比”在少于两个模型时也会静默无响应，但仍呈现为普通可点击菜单。
+
+建议：V1 先只保留“模型”和“对比”。未实现的入口应隐藏；若必须展示，则使用明确禁用态和说明。为可用入口设置稳定 URL 与 `aria-current`。
+
+### P1：选择结果出现在视觉边缘，反馈距离过远
+
+- 选择发生在表格左侧，反馈却出现在视口最下方 96 px 区域，视线移动距离很长。
+- 底栏为 97% 白色，与页面和表格表面相近，只靠细边框与浅阴影区分，容易被识别为普通页脚。
+- 1366 × 768 下底栏覆盖表格下部内容；用户关注表格时容易忽略它。
+- 页面默认已选择两个模型，用户缺少“底栏刚刚出现”的状态变化线索。
+
+建议：默认不预选模型。将选择摘要移到筛选栏下方，做成随列表滚动保持可见的紧凑选择条；选择后立即显示模型 chip、数量和主操作。
+
+### P2：不足两个模型时缺少下一步指导
+
+- 只选一个模型时显示“对比 1 个模型”，按钮仅变浅，没有解释为什么不能继续。
+- 更清楚的文案应为“再选 1 个即可对比”，第二项选中后再变成高强调的“开始对比”。
+
+### 可访问性风险
+
+- 选择数量变化没有 `aria-live`，屏幕阅读器不会获知“已选 1/5”。
+- 无响应菜单仍是普通 button，键盘用户无法判断它们没有功能。
+- 截图只能确认视觉和交互结果，不能证明完整 WCAG 合规。
+
+## 推荐改法
+
+1. 导航收敛为“模型 / 对比”，暂时移除未实现目录。
+2. 默认清空选择，避免用户进入页面时出现来源不明的预选项。
+3. 把底部固定栏改为筛选区下方的 sticky 选择条，并保留行内高亮。
+4. 选择第一项后显示“再选 1 个即可对比”；选择第二项后突出“开始对比”。
+5. 增加 `aria-live="polite"` 的选择状态播报，并为当前导航增加 `aria-current`。

diff --git a/apps/web/AGENTS.md b/apps/web/AGENTS.md
@@ -13,3 +13,5 @@ Build app UI in `src/`. Keep `.openai/hosting.json`, `worker/index.js`, `scripts
 - Visual direction: the selected light “Model Atlas” catalog concept.
 - Keep the product concise and efficient; prioritize the model catalog and compare flow.
 - Default all visible data and freshness filters to the latest three months.
+- Keep all four primary sections (Overview, Models, Compare, Benchmarks) visible and functional; each section must have its own stable URL and meaningful content.
+- Show selected models directly below the model filters, with clear 0/1/2+ guidance; never hide the active selection only at the bottom of the viewport.
